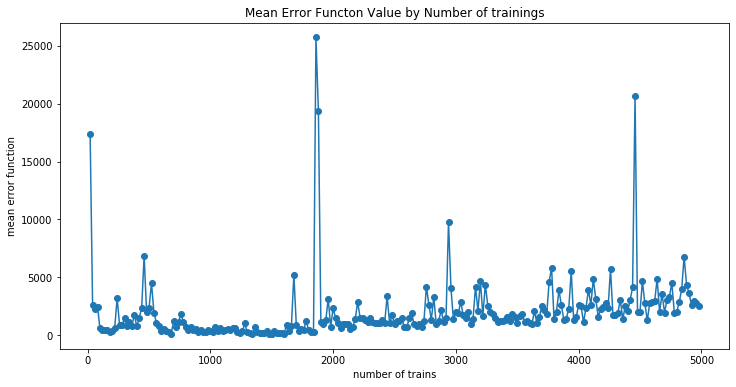
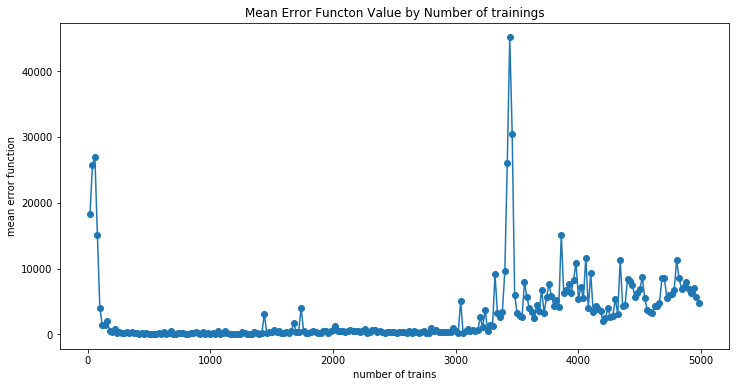
added h_nodes=10 image

diff --git a/back-prop-practice.py b/back-prop-practice.py
@@ -20,7 +20,7 @@ def gen():
     y_test = np.array([x[0]+x[1], x[2]+x[3]])
 #ideal output : o2[0] = x[0]+x[1], o2[1] = x[2]+x[3]
 
-h_nodes = 20    #number of hidden nodes
+h_nodes = 10    #number of hidden nodes
 w1 = np.random.randn(5, h_nodes)    #w1[4] is bias
 net1 = []
 o1 = []
